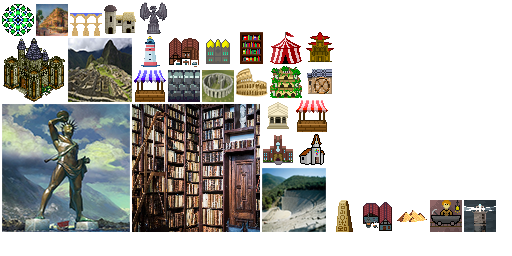
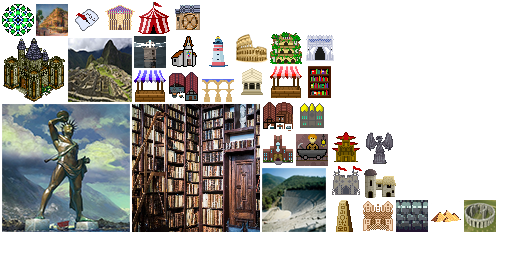
Buildings: Implement Terracotta Army

Changed region(s): [[0.125, 0.0, 0.9688, 0.9062]]

diff --git a/server/src/main/java/me/rhin/openciv/server/game/city/building/type/TerracottaArmy.java b/server/src/main/java/me/rhin/openciv/server/game/city/building/type/TerracottaArmy.java
@@ -1,0 +1,90 @@
+package me.rhin.openciv.server.game.city.building.type;
+
+import java.util.ArrayList;
+
+import com.badlogic.gdx.utils.Json;
+
+import me.rhin.openciv.server.Server;
+import me.rhin.openciv.server.game.Player;
+import me.rhin.openciv.server.game.city.City;
+import me.rhin.openciv.server.game.city.building.Building;
+import me.rhin.openciv.server.game.city.wonders.Wonder;
+import me.rhin.openciv.server.game.map.tile.Tile;
+import me.rhin.openciv.server.game.research.type.ConstructionTech;
+import me.rhin.openciv.server.game.unit.Unit;
+import me.rhin.openciv.server.game.unit.UnitItem.UnitType;
+import me.rhin.openciv.shared.packet.type.AddUnitPacket;
+import me.rhin.openciv.shared.stat.Stat;
+import me.rhin.openciv.shared.stat.StatLine;
+
+public class TerracottaArmy extends Building implements Wonder {
+
+	public TerracottaArmy(City city) {
+		super(city);
+	}
+
+	@Override
+	public void create() {
+		super.create();
+
+		ArrayList<String> copiedUnits = new ArrayList<>();
+
+		for (Unit unit : new ArrayList<Unit>(city.getPlayerOwner().getOwnedUnits())) {
+			if (copiedUnits.contains(unit.getName()) || unit.getUnitTypes().contains(UnitType.SUPPORT))
+				continue;
+
+			for (Tile tile : unit.getTile().getAdjTiles()) {
+				if (unit.canStandOnTile(tile)) {
+
+					Unit copyUnit = unit.copy();
+					copyUnit.setStandingTile(tile);
+					tile.addUnit(copyUnit);
+
+					copiedUnits.add(copyUnit.getName());
+
+					AddUnitPacket addUnitPacket = new AddUnitPacket();
+					addUnitPacket.setUnit(copyUnit.getPlayerOwner().getName(), copyUnit.getName(), copyUnit.getID(),
+							tile.getGridX(), tile.getGridY());
+
+					Json json = new Json();
+					for (Player player : Server.getInstance().getPlayers())
+						player.sendPacket(json.toJson(addUnitPacket));
+
+					break;
+				}
+			}
+
+		}
+	}
+
+	@Override
+	public boolean meetsProductionRequirements() {
+		return city.getPlayerOwner().getResearchTree().hasResearched(ConstructionTech.class)
+				&& !Server.getInstance().getInGameState().getWonders().isBuilt(getClass());
+	}
+
+	@Override
+	public float getGoldCost() {
+		return -1;
+	}
+
+	@Override
+	public StatLine getStatLine() {
+		StatLine statLine = new StatLine();
+
+		statLine.addValue(Stat.HERITAGE_GAIN, 1);
+
+		return statLine;
+	}
+
+	@Override
+	public float getBuildingProductionCost() {
+		return 200;
+	}
+
+	@Override
+	public String getName() {
+		return "Terracotta Army";
+	}
+
+}

diff --git a/server/src/main/java/me/rhin/openciv/server/game/unit/Unit.java b/server/src/main/java/me/rhin/openciv/server/game/unit/Unit.java
@@ -24,6 +24,7 @@ import me.rhin.openciv.server.game.civilization.type.Barbarians;
 import me.rhin.openciv.server.game.map.tile.Tile;
 import me.rhin.openciv.server.game.map.tile.TileObserver;
 import me.rhin.openciv.server.game.map.tile.TileType;
+import me.rhin.openciv.server.game.map.tile.TileType.TileProperty;
 import me.rhin.openciv.server.game.options.GameOptionType;
 import me.rhin.openciv.server.game.unit.UnitItem.UnitType;
 import me.rhin.openciv.server.listener.CaptureCityListener.CaptureCityEvent;
@@ -503,6 +504,18 @@ public abstract class Unit implements AttackableEntity, TileObserver, NextTurnLi
 		if (tile.getCity() != null && !tile.getCity().getPlayerOwner().equals(playerOwner)) {
 			return false;
 		}
+
+		// FIXME: Just have mountain wonders contain montain tile property.
+		if (tile.containsTileProperty(TileProperty.NATURAL_WONDER) || tile.containsTileType(TileType.MOUNTAIN))
+			return false;
+
+		// We can't stand on water...
+		if (tile.containsTileProperty(TileProperty.WATER) && !getUnitTypes().contains(UnitType.NAVAL))
+			return false;
+
+		// We can't sail on land...
+		if (!tile.containsTileProperty(TileProperty.WATER) && getUnitTypes().contains(UnitType.NAVAL))
+			return false;
 
 		if (tile.getUnits().size() < 1)
 			return true;
@@ -1041,6 +1054,22 @@ public abstract class Unit implements AttackableEntity, TileObserver, NextTurnLi
 
 	public StatLine getMaintenance() {
 		return statLineMap.get("maintenance");
+	}
+
+	public Unit copy() {
+
+		try {
+			Class<? extends Unit> unitClass = (Class<? extends Unit>) Class
+					.forName("me.rhin.openciv.server.game.unit.type." + getName().replaceAll("\\s", "") + "$"
+							+ getName().replaceAll("\\s", "") + "Unit");
+
+			return unitClass.getDeclaredConstructor(AbstractPlayer.class, Tile.class).newInstance(playerOwner,
+					standingTile);
+		} catch (Exception e) {
+			e.printStackTrace();
+		}
+
+		return null;
 	}
 
 	protected void setCombatStrength(float amount) {

diff --git a/core/src/main/java/me/rhin/openciv/game/city/building/type/TerracottaArmy.java b/core/src/main/java/me/rhin/openciv/game/city/building/type/TerracottaArmy.java
@@ -1,0 +1,63 @@
+package me.rhin.openciv.game.city.building.type;
+
+import java.util.Arrays;
+import java.util.List;
+
+import me.rhin.openciv.Civilization;
+import me.rhin.openciv.asset.TextureEnum;
+import me.rhin.openciv.game.city.City;
+import me.rhin.openciv.game.city.building.Building;
+import me.rhin.openciv.game.city.wonders.Wonder;
+import me.rhin.openciv.game.research.type.ConstructionTech;
+import me.rhin.openciv.shared.stat.Stat;
+import me.rhin.openciv.shared.stat.StatLine;
+
+public class TerracottaArmy extends Building implements Wonder {
+
+	public TerracottaArmy(City city) {
+		super(city);
+	}
+
+	@Override
+	public boolean meetsProductionRequirements() {
+		return city.getPlayerOwner().getResearchTree().hasResearched(ConstructionTech.class)
+				&& !Civilization.getInstance().getGame().getWonders().isBuilt(getClass());
+	}
+
+	@Override
+	public float getGoldCost() {
+		return -1;
+	}
+
+	@Override
+	public List<String> getDesc() {
+		return Arrays.asList(
+				"A wonder of the Classical era, which creates a single copy of every unit \"type\" the player has on the map.",
+				"+1 Heritage");
+	}
+
+	@Override
+	public TextureEnum getTexture() {
+		return TextureEnum.BUILDING_TERRACOTTA_ARMY;
+	}
+
+	@Override
+	public StatLine getStatLine() {
+		StatLine statLine = new StatLine();
+
+		statLine.addValue(Stat.HERITAGE_GAIN, 1);
+
+		return statLine;
+	}
+
+	@Override
+	public float getBuildingProductionCost() {
+		return 200;
+	}
+
+	@Override
+	public String getName() {
+		return "Terracotta Army";
+	}
+
+}

diff --git a/server/src/main/java/me/rhin/openciv/server/game/production/ProducibleItemManager.java b/server/src/main/java/me/rhin/openciv/server/game/production/ProducibleItemManager.java
@@ -39,6 +39,7 @@ import me.rhin.openciv.server.game.city.building.type.Stables;
 import me.rhin.openciv.server.game.city.building.type.StatueOfAres;
 import me.rhin.openciv.server.game.city.building.type.Stonehenge;
 import me.rhin.openciv.server.game.city.building.type.Stoneworks;
+import me.rhin.openciv.server.game.city.building.type.TerracottaArmy;
 import me.rhin.openciv.server.game.city.building.type.Walls;
 import me.rhin.openciv.server.game.city.building.type.WaterMill;
 import me.rhin.openciv.server.game.city.building.type.Workshop;
@@ -168,6 +169,7 @@ public class ProducibleItemManager implements NextTurnListener, FaithBuyProducti
 		possibleItems.put("Stonehenge", new Stonehenge(city));
 		possibleItems.put("Machu Picchu", new MachuPicchu(city));
 		possibleItems.put("Colossus", new Colossus(city));
+		possibleItems.put("Terracotta Army", new TerracottaArmy(city));
 
 		Server.getInstance().getEventManager().addListener(NextTurnListener.class, this);
 		Server.getInstance().getEventManager().addListener(SetProductionItemListener.class, this);
@@ -331,10 +333,7 @@ public class ProducibleItemManager implements NextTurnListener, FaithBuyProducti
 			}
 		}
 
-		// if (!queueEnabled) {
-		// // TODO: Implement appliedProductionItems here to save applied production.
-		// itemQueue.clear();
-		// }
+		itemQueue.clear();
 
 		LOGGER.info("Building: " + itemName);
 		itemQueue.add(new ProducingItem(possibleItems.get(itemName)));

diff --git a/core/src/main/java/me/rhin/openciv/game/unit/Unit.java b/core/src/main/java/me/rhin/openciv/game/unit/Unit.java
@@ -154,14 +154,9 @@ public abstract class Unit extends Actor
 			float yIncrement = (float) (speed * Math.sin(angle)) * (Gdx.graphics.getDeltaTime() * 60);
 
 			sprite.setPosition(sprite.getX() + xIncrement, sprite.getY() + yIncrement);
-			civIconSprite.setPosition(sprite.getX() + 10 + xIncrement, sprite.getY() + 25 + yIncrement);
-			unitHealthBubble.setPosition(civIconSprite.getX() + 4 + xIncrement, civIconSprite.getY() + 4 + yIncrement);
 
 			if (Math.abs(sprite.getX() - tileX) < 1 && Math.abs(sprite.getY() - tileY) < 1) {
 				movementTiles.remove(tile);
-				sprite.setPosition(tileX, tileY);
-				civIconSprite.setPosition(tileX + 10, tileY + 25);
-				unitHealthBubble.setPosition(civIconSprite.getX() + 4, civIconSprite.getY() + 4);
 			}
 		}
 
@@ -459,6 +454,8 @@ public abstract class Unit extends Actor
 		float tileY = targetTile.getVectors()[0].y + 4;
 
 		selectionSprite.setPosition(tileX, tileY);
+		civIconSprite.setPosition(tileX + 10, tileY + 25);
+		unitHealthBubble.setPosition(civIconSprite.getX() + 4, civIconSprite.getY() + 4);
 		super.setPosition(tileX, tileY);
 
 		standingTile = targetTile;

diff --git a/core/src/main/java/me/rhin/openciv/game/production/ProducibleItemManager.java b/core/src/main/java/me/rhin/openciv/game/production/ProducibleItemManager.java
@@ -32,6 +32,7 @@ import me.rhin.openciv.game.city.building.type.Stables;
 import me.rhin.openciv.game.city.building.type.StatueOfAres;
 import me.rhin.openciv.game.city.building.type.Stonehenge;
 import me.rhin.openciv.game.city.building.type.Stoneworks;
+import me.rhin.openciv.game.city.building.type.TerracottaArmy;
 import me.rhin.openciv.game.city.building.type.Walls;
 import me.rhin.openciv.game.city.building.type.WaterMill;
 import me.rhin.openciv.game.city.building.type.Workshop;
@@ -137,6 +138,7 @@ public class ProducibleItemManager {
 		possibleItems.put("Stonehenge", new Stonehenge(city));
 		possibleItems.put("Machu Picchu", new MachuPicchu(city));
 		possibleItems.put("Colossus", new Colossus(city));
+		possibleItems.put("Terracotta Army", new TerracottaArmy(city));
 
 		// FIXME: There should be a better way to do this than just checking if the
 		// player matches

diff --git a/server/src/main/java/me/rhin/openciv/server/game/ai/behavior/nodes/ProduceBuildingsNode.java b/server/src/main/java/me/rhin/openciv/server/game/ai/behavior/nodes/ProduceBuildingsNode.java
@@ -5,6 +5,7 @@ import me.rhin.openciv.server.game.ai.behavior.BehaviorStatus;
 import me.rhin.openciv.server.game.ai.behavior.CityNode;
 import me.rhin.openciv.server.game.city.City;
 import me.rhin.openciv.server.game.city.building.Building;
+import me.rhin.openciv.server.game.city.wonders.Wonder;
 import me.rhin.openciv.server.game.production.ProducibleItemManager;
 import me.rhin.openciv.server.game.production.ProductionItem;
 
@@ -28,7 +29,8 @@ public class ProduceBuildingsNode extends CityNode {
 
 			Building building = (Building) productionItem;
 
-			if (city.containsBuilding(building.getClass()))
+			if (city.containsBuilding(building.getClass())
+					|| (city.getPlayerOwner().isCityStatePlayer() && building instanceof Wonder))
 				continue;
 
 			if (topItem == null || topItem.getAIValue() < building.getAIValue())

diff --git a/server/src/main/java/me/rhin/openciv/server/game/city/wonders/GameWonders.java b/server/src/main/java/me/rhin/openciv/server/game/city/wonders/GameWonders.java
@@ -1,5 +1,6 @@
 
 package me.rhin.openciv.server.game.city.wonders;
+
 import java.util.HashMap;
 
 import me.rhin.openciv.server.game.city.building.Building;
@@ -10,6 +11,7 @@ import me.rhin.openciv.server.game.city.building.type.HangingGardens;
 import me.rhin.openciv.server.game.city.building.type.MachuPicchu;
 import me.rhin.openciv.server.game.city.building.type.StatueOfAres;
 import me.rhin.openciv.server.game.city.building.type.Stonehenge;
+import me.rhin.openciv.server.game.city.building.type.TerracottaArmy;
 
 public class GameWonders {
 
@@ -25,6 +27,7 @@ public class GameWonders {
 		addWonder(Stonehenge.class);
 		addWonder(MachuPicchu.class);
 		addWonder(Colossus.class);
+		addWonder(TerracottaArmy.class);
 	}
 
 	private void addWonder(Class<? extends Building> clazz) {

diff --git a/server/src/main/java/me/rhin/openciv/server/game/AbstractPlayer.java b/server/src/main/java/me/rhin/openciv/server/game/AbstractPlayer.java
@@ -4,6 +4,8 @@ import java.util.ArrayList;
 import java.util.Random;
 
 import me.rhin.openciv.server.Server;
+import me.rhin.openciv.server.game.ai.AIPlayer;
+import me.rhin.openciv.server.game.ai.AIType;
 import me.rhin.openciv.server.game.city.City;
 import me.rhin.openciv.server.game.city.building.Building;
 import me.rhin.openciv.server.game.civilization.Civ;
@@ -250,6 +252,16 @@ public abstract class AbstractPlayer implements NextTurnListener {
 			totalCombatStrength += unit.getCombatStrength(null);
 		}
 		return totalCombatStrength;
+	}
+
+	public boolean isCityStatePlayer() {
+		if (this instanceof AIPlayer) {
+			AIPlayer aiPlayer = (AIPlayer) this;
+
+			if (aiPlayer.getAIType() == AIType.CITY_STATE_PLAYER)
+				return true;
+		}
+		return false;
 	}
 
 }

diff --git a/core/src/main/java/me/rhin/openciv/game/city/wonders/GameWonders.java b/core/src/main/java/me/rhin/openciv/game/city/wonders/GameWonders.java
@@ -10,6 +10,7 @@ import me.rhin.openciv.game.city.building.type.HangingGardens;
 import me.rhin.openciv.game.city.building.type.MachuPicchu;
 import me.rhin.openciv.game.city.building.type.StatueOfAres;
 import me.rhin.openciv.game.city.building.type.Stonehenge;
+import me.rhin.openciv.game.city.building.type.TerracottaArmy;
 
 public class GameWonders {
 
@@ -25,6 +26,7 @@ public class GameWonders {
 		addWonder(Stonehenge.class);
 		addWonder(MachuPicchu.class);
 		addWonder(Colossus.class);
+		addWonder(TerracottaArmy.class);
 	}
 
 	private void addWonder(Class<? extends Building> clazz) {

diff --git a/core/src/main/java/me/rhin/openciv/ui/window/type/PickResearchWindow.java b/core/src/main/java/me/rhin/openciv/ui/window/type/PickResearchWindow.java
@@ -75,7 +75,7 @@ public class PickResearchWindow extends AbstractWindow implements ResizeListener
 		if (tech.getUnlockables() != null)
 			for (Unlockable unlockable : tech.getUnlockables()) {
 				CustomButton button = new CustomButton(TextureEnum.UI_BUTTON_ICON, TextureEnum.UI_BUTTON_ICON_HOVERED,
-						unlockable.getTexture(), 5 + (50 * index), getHeight() - 135, 48, 48);
+						unlockable.getTexture(), 5 + (50 * index), getHeight() - 135, 48, 48, 32, 32);
 				button.onClick(() -> {
 					Civilization.getInstance().getWindowManager().addWindow(new ItemInfoWindow(unlockable));
 				});

diff --git a/core/src/main/java/me/rhin/openciv/game/research/type/ConstructionTech.java b/core/src/main/java/me/rhin/openciv/game/research/type/ConstructionTech.java
@@ -46,7 +46,7 @@ public class ConstructionTech extends Technology {
 	@Override
 	public List<Unlockable> getUnlockables() {
 		List<Unlockable> unlockables = Civilization.getInstance().getGame().getPlayer()
-				.getUnlockablesByName("Colosseum", "Composite Bowman");
+				.getUnlockablesByName("Colosseum", "Terracotta Army", "Composite Bowman");
 
 		unlockables.add(new CustomUnlockable("Lumber Mill", TextureEnum.TILE_LUMBERMILL,
 				Arrays.asList("Improve forest tiles.", "Provides +1 Production.")));
